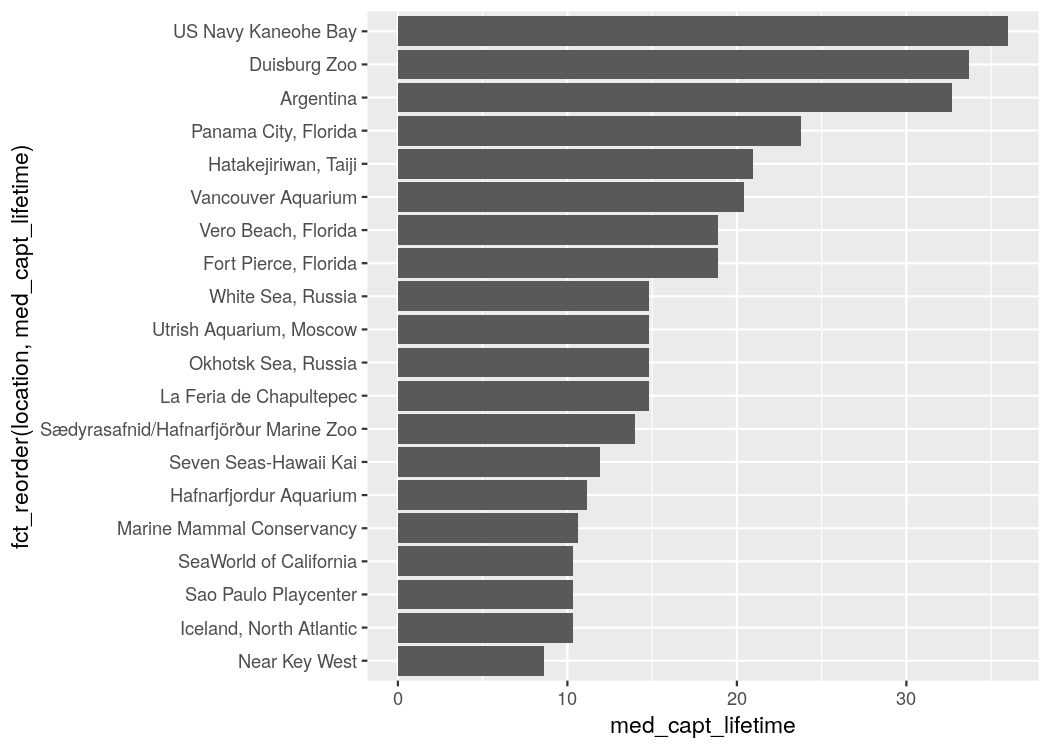
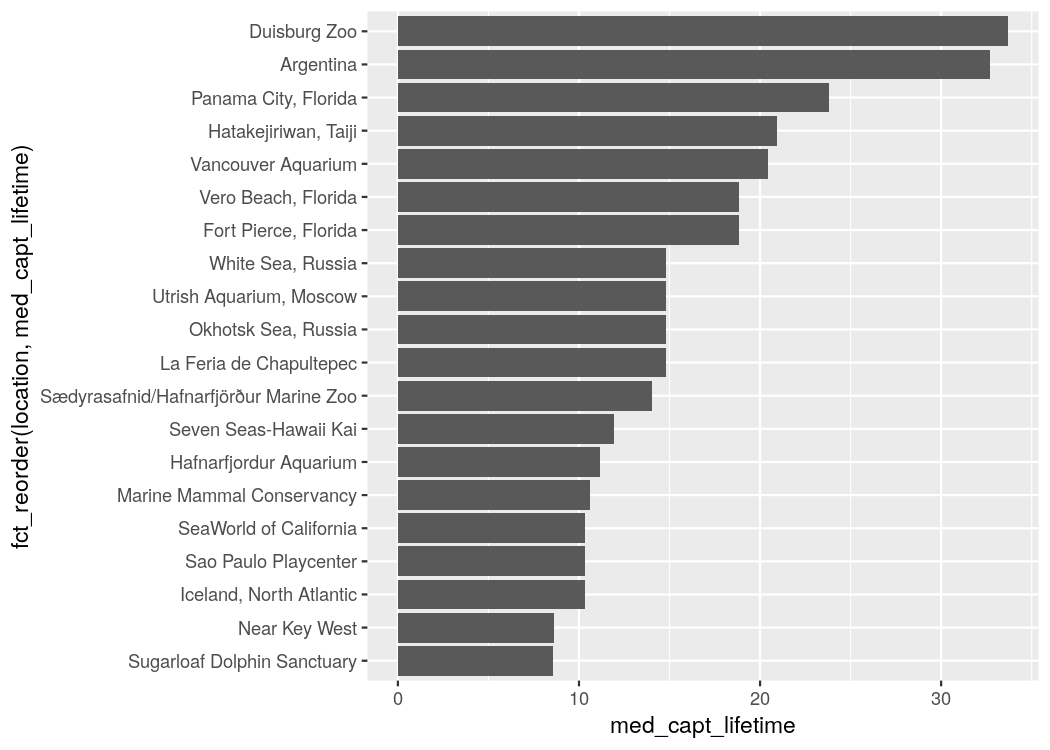
Added median stay analysis

diff --git a/eda/parks.md b/eda/parks.md
@@ -1,7 +1,7 @@
 Parks
 ================
 Callan Hoskins
-2020-03-08
+2020-03-09
 
   - [Families within Captive Cetacean
     Populations](#families-within-captive-cetacean-populations)
@@ -264,16 +264,23 @@ transfer_data <-
   )
 
 transfer_data %>% 
-  pull(transfers) %>% 
-  head()
+  select(name, transfers)
 ```
 
-    ## [1] NA                                                                                                                                                                                                                                                                                                                                                                                                                                                                                                   
-    ## [2] NA                                                                                                                                                                                                                                                                                                                                                                                                                                                                                                   
-    ## [3] "SeaWorld San Diego to SeaWorld Aurora (??-???-1983) to SeaWorld San Diego (??-???-1983) to SeaWorld Aurora (??-???-1985) to SeaWorld San Diego (??-???-1985) to SeaWorld Orlando (< Nov 1987) to SeaWorld San Antonio (< 1991) to Busch Gardens Tampa (1991 / 1992) to National Aquarium in Baltimore (11-Oct-1992) to SeaWorld Aurora (22-Oct-1997) to SeaWorld San Antonio (26-Apr-1998) to SeaWorld Orlando (03-Apr-2000) to Busch Gardens Tampa (28-Sep-2000) to SeaWorld Orlando (19-Apr-2001)"
-    ## [4] "SeaWorld Orlando to SeaWorld San Diego (< Aug 1986)"                                                                                                                                                                                                                                                                                                                                                                                                                                                
-    ## [5] "SeaWorld San Diego to SeaWorld Aurora (< 1987) to SeaWorld San Antonio (13-Oct-1990?)"                                                                                                                                                                                                                                                                                                                                                                                                              
-    ## [6] "SeaWorld San Diego to New England Aquarium (22-Oct-1986) to U.S. Navy MMP (17-Nov-1987)"
+    ## # A tibble: 1,326 x 2
+    ##    name     transfers                                                           
+    ##    <chr>    <chr>                                                               
+    ##  1 dazzle   <NA>                                                                
+    ##  2 tursi    <NA>                                                                
+    ##  3 starbuck SeaWorld San Diego to SeaWorld Aurora (??-???-1983) to SeaWorld San…
+    ##  4 sandy    SeaWorld Orlando to SeaWorld San Diego (< Aug 1986)                 
+    ##  5 nacha    SeaWorld San Diego to SeaWorld Aurora (< 1987) to SeaWorld San Anto…
+    ##  6 kama     SeaWorld San Diego to New England Aquarium (22-Oct-1986) to U.S. Na…
+    ##  7 jenever  SeaWorld Orlando to SeaWorld San Antonio (< 1991) to SeaWorld Orlan…
+    ##  8 duffy    SeaWorld San Diego to SeaWorld Aurora (15-Apr-2000) to SeaWorld Orl…
+    ##  9 astra    SeaWorld San Diego to SeaWorld Aurora (??-???-????) to Unknown Hist…
+    ## 10 sunny    <NA>                                                                
+    ## # … with 1,316 more rows
 
 The first problem is how to extract information about these transfers
 from these strings… we are going to need some serious regex here\!
@@ -312,7 +319,18 @@ transfer_data <-
     origin_loc, 
     currently, 
     everything()
-  )
+  ) %>% 
+  group_by(name) %>% 
+  mutate(length_of_stay = lead(transfer_year) - transfer_year) %>% 
+  mutate(
+    length_of_stay = 
+      if_else(
+        is.na(length_of_stay) & status == "Alive", 
+        today() %>% year() %>% as.integer() - transfer_year, 
+        length_of_stay
+      )
+  ) %>% 
+  ungroup()
 ```
 
 ## Cetaceans with high numbers of transfers
@@ -392,7 +410,7 @@ transfer_data_parks %>%
   arrange(location)
 ```
 
-    ## # A tibble: 122 x 2
+    ## # A tibble: 119 x 2
     ##    location                       n
     ##    <chr>                      <int>
     ##  1 Animal Wonderland              2
@@ -405,10 +423,11 @@ transfer_data_parks %>%
     ##  8 Discovery Cove                91
     ##  9 Dolfinarium Harderwijk         5
     ## 10 Dolphin Academy                1
-    ## # … with 112 more rows
+    ## # … with 109 more rows
 
 ``` r
 transfer_data_parks %>% 
+  filter(acquisition == "Born") %>% 
   mutate(capt_lifetime = (birth_year %--% entry_date) %>% time_length("years")) %>% 
   drop_na(capt_lifetime) %>% 
   group_by(location) %>% 
@@ -427,3 +446,31 @@ transfer_data_parks %>%
 ```
 
 ![](parks_files/figure-gfm/unnamed-chunk-12-1.png)<!-- -->
+
+I like this analysis, but I still don’t have all that much faith in my
+measure of “lifetime” because it’s based on the `entry_date` and
+`origin_date` columns, which are not necessarily accurate. It is
+definitely interesting to see some of these statistics, especially the
+fact that the US Navy MMP has such a long median lifetime for the
+cetaceans that spend some time there. It may be more interesting to look
+at the median *length* of a cetacean’s stay at a given park.
+
+``` r
+transfer_data_parks %>% 
+  drop_na(length_of_stay) %>% 
+  group_by(location) %>% 
+  summarize(med_length_stay = median(length_of_stay)) %>% 
+  top_n(20, med_length_stay) %>% 
+  ggplot(aes(fct_reorder(location, med_length_stay), med_length_stay)) + 
+  geom_point() + 
+  coord_flip() + 
+  scale_y_continuous(breaks = scales::breaks_width(5)) + 
+  theme_light() + 
+  labs(
+    title = "Twenty Best Parks for Median Length of Stay", 
+    y = "Median Length of Individual Stay (years)", 
+    x = NULL
+  )
+```
+
+![](parks_files/figure-gfm/unnamed-chunk-13-1.png)<!-- -->
